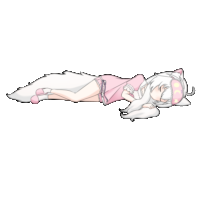
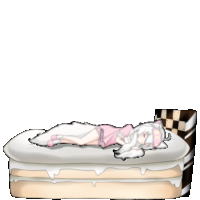
added some more in-game assets

diff --git a/src/level.rs b/src/level.rs
@@ -20,7 +20,7 @@ use level_layout::spaceship_1_layout::Spaceship1Info;
 use level_layout::spaceship_2_layout::Spaceship2Info;
 use level_layout::spaceship_3_layout::Spaceship3Info;
 use level_layout::spaceship_4_layout::Spaceship4Info;
-use level_layout::{DoorCollider, FloorAssetType, FloorInfo, FloorModification};
+use level_layout::{DoorCollider, DoorType, FloorAssetType, FloorInfo, FloorModification};
 use level_layout::{cweamcat_lair_layout::CweamcatLairInfo, starting_room_layout::StartingRoomInfo, FloorCollider, TransitionCollider};
 use transition_states::TransitionState;
 
@@ -39,9 +39,7 @@ pub mod level_bgm;
 pub mod cheats;
 
 const TRANSITION_COLOR: Color = Color::srgb(0.5, 1.0, 0.5);
-const DOOR_COLOR: Color = Color::srgb(0.9, 0.2, 0.9);
 const GRAVITY_INVERTER_COLOR: Color = Color::srgba(0.1, 0.2, 0.2, 0.5);
-const TIME_TRIAL_COLOR: Color = Color::srgb(0.9, 0.2, 0.2);
 
 #[derive(Component)]
 pub struct BackgroundComponent;
@@ -286,17 +284,26 @@ pub fn spawn_new_level(
 
         if let Some(doors) = &level_layout.door_layout {
             for door in doors {
-                commands
-                    .spawn(*door)
-                    .insert((
-                        Mesh2d(meshes.add(Rectangle::new(door.floor_info.size.x, door.floor_info.size.y))),
-                        MeshMaterial2d(materials.add(DOOR_COLOR)),
-                        Transform::from_translation(door.floor_info.position)
-                    ))
-                    .insert(Collider::cuboid(door.floor_info.size.x / 2.0, door.floor_info.size.y / 2.0))
-                    .insert(Sensor)
-                    .insert(ActiveEvents::COLLISION_EVENTS)
-                    .insert(Interactable);
+                let mut door_commands = commands.spawn((
+                    *door,
+                    Transform::from_translation(door.floor_info.position),
+                    Collider::cuboid(door.floor_info.size.x / 2.0, door.floor_info.size.y / 2.0),
+                    Sensor,
+                    ActiveEvents::COLLISION_EVENTS,
+                    Interactable
+                ));
+
+                if let DoorType::Teleport = door.door_type {
+                    let texture = asset_server.load("floor_modifications/Teleporter.png");
+
+                    door_commands.insert(
+                        Sprite {
+                            image: texture,
+                            anchor: bevy::sprite::Anchor::Center,
+                            custom_size: Some(Vec2::new(door.floor_info.size.x, door.floor_info.size.y)),
+                            ..default()
+                        });
+                }
             }
         }
 
@@ -340,11 +347,17 @@ pub fn spawn_new_level(
                             .insert(ActiveEvents::COLLISION_EVENTS);
                     },
                     FloorModification::TimeTrial(time_trial) => {
+                        let texture = asset_server.load("floor_modifications/Lever1.png");
+
                         commands
                             .spawn(*time_trial)
                             .insert((
-                                Mesh2d(meshes.add(Rectangle::new(time_trial.lever_info.size.x, time_trial.lever_info.size.y))),
-                                MeshMaterial2d(materials.add(TIME_TRIAL_COLOR)),
+                                Sprite {
+                                    image: texture,
+                                    anchor: bevy::sprite::Anchor::Center,
+                                    custom_size: Some(Vec2::new(time_trial.lever_info.size.x, time_trial.lever_info.size.y)),
+                                    ..default()
+                                },
                                 Transform::from_translation(time_trial.lever_info.position),
                                 Interactable
                             ))

diff --git a/src/level/floor_modification.rs b/src/level/floor_modification.rs
@@ -128,7 +128,7 @@ pub fn time_trial_collision_reader(
 
 pub fn time_trial_start_interaction_input_reader(
     keyboard_input: Res<ButtonInput<KeyCode>>, 
-    time_trials: Query<&TimeTrial, (With<Interactable>, Without<NPC>)>,
+    mut time_trials: Query<(&TimeTrial, &mut Sprite), (With<Interactable>, Without<NPC>)>,
     mut timers: Query<&mut TimeTrialTimer>,
     mut commands: Commands,
     asset_server: Res<AssetServer>,
@@ -138,7 +138,7 @@ pub fn time_trial_start_interaction_input_reader(
         return;
     }
 
-    if let Some(time_trial) = time_trials.iter().find(|f| f.is_active) {
+    if let Some((time_trial, mut time_trial_sprite)) = time_trials.iter_mut().find(|f| f.0.is_active) {
         let mut playback_settings = PlaybackSettings::default().with_volume(Volume::Linear(audio_settings.sfx_volume));
         playback_settings.mode = PlaybackMode::Despawn;
     
@@ -152,6 +152,9 @@ pub fn time_trial_start_interaction_input_reader(
 
             return;
         }
+
+        let texture = asset_server.load("floor_modifications/Lever2.png");
+        time_trial_sprite.image = texture;
 
         commands.spawn(
             TimeTrialTimer { timer: Timer::new(Duration::from_secs(time_trial.seconds_to_complete), TimerMode::Once), entity_id: time_trial.id }
@@ -197,13 +200,20 @@ pub fn time_trial_start_interaction_input_reader(
 pub fn tick_timer_trial_timer(
     mut commands: Commands,
     mut timers: Query<(Entity, &mut TimeTrialTimer)>,
+    mut time_trials: Query<(&TimeTrial, &mut Sprite), (With<Interactable>, With<TimeTrial>, Without<NPC>)>,
     floors: Query<(Entity, &BreakableWall), With<BreakableWall>>,
     time: Res<Time>,
+    asset_server: Res<AssetServer>,
 ) {
     for (timer_entity, mut timer) in timers.iter_mut() {
         timer.timer.tick(time.delta());
 
         if timer.timer.finished() {
+            if let Some((_, mut time_trial_sprite)) = time_trials.iter_mut().find(|f| f.0.id == timer.entity_id) {
+                let texture = asset_server.load("floor_modifications/Lever1.png");
+                time_trial_sprite.image = texture;
+            }
+
             commands.entity(timer_entity).despawn();
 
             for (floor_entity, breakable_wall) in floors.iter() {

diff --git a/src/level/level_layout/cweamcat_lair_layout.rs b/src/level/level_layout/cweamcat_lair_layout.rs
@@ -71,7 +71,7 @@ impl LevelInfo for CweamcatLairInfo {
     fn get_doors(&self, _cweampuff: &crate::Cweampuff) -> Option<Box<[DoorCollider]>> {
         Some(Box::from([
             DoorCollider { floor_info: EntityInfo { position: Vec3 { x: 1350., y: -50., z: 0.0 }, size: Vec2 { x: 100., y: 200. } }, door_type: DoorType::Door,
-                transition_to_level: Level::CweamcatHouse(CweamcatHouseInfo), safe_position: Vec3 { x: -750.0, y: -375.0, z: CWEAMPUFF_Z_INDEX }, is_active: false }
+                transition_to_level: Level::CweamcatHouse(CweamcatHouseInfo), safe_position: Vec3 { x: -680.0, y: -375.0, z: CWEAMPUFF_Z_INDEX }, is_active: false }
         ]))
     }
     

diff --git a/src/level/level_layout/cweamcat_house_layout.rs b/src/level/level_layout/cweamcat_house_layout.rs
@@ -23,7 +23,7 @@ impl LevelInfo for CweamcatHouseInfo {
 
     fn get_doors(&self, _cweampuff: &crate::Cweampuff) -> Option<Box<[DoorCollider]>> {
         Some(Box::from([
-            DoorCollider { floor_info: EntityInfo { position: Vec3 { x: -750., y: -300., z: 0.0 }, size: Vec2 { x: 100., y: 200. } }, door_type: DoorType::Door,
+            DoorCollider { floor_info: EntityInfo { position: Vec3 { x: -850., y: -300., z: 0.0 }, size: Vec2 { x: 300., y: 200. } }, door_type: DoorType::Door,
                 transition_to_level: Level::CweamcatLair(CweamcatLairInfo), safe_position: Vec3 { x: 1350., y: -125., z: CWEAMPUFF_Z_INDEX }, is_active: false }
         ]))
     }
